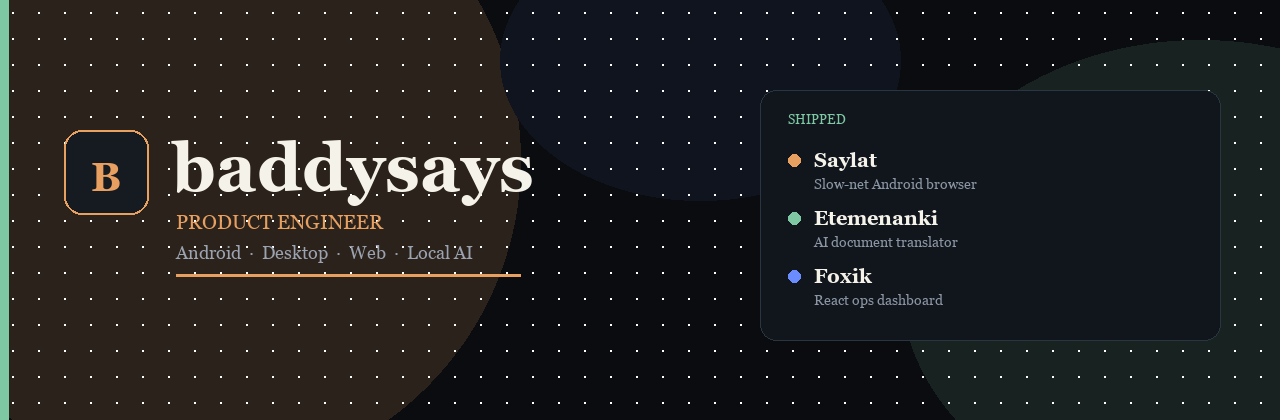
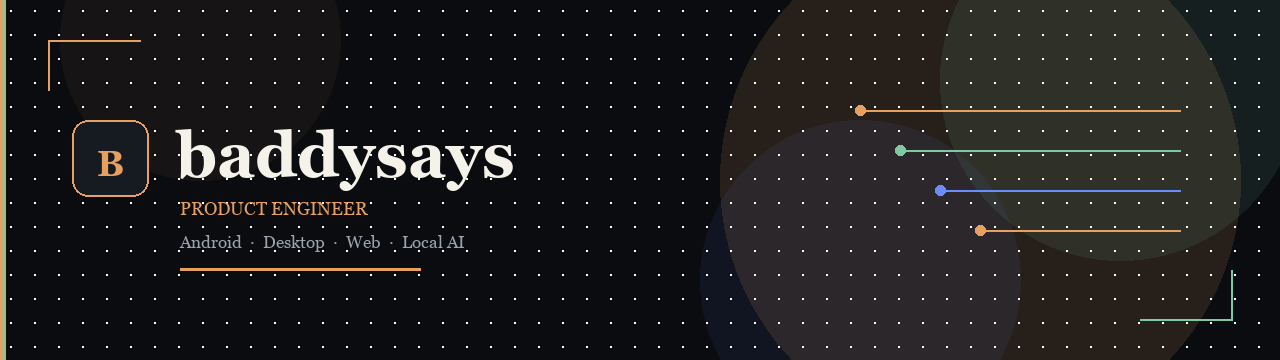
Polish profile: clean brand header without projects, tighter README.

diff --git a/README.md b/README.md
@@ -1,67 +1,57 @@
 <p align="center">
-  <img src="./assets/header.png" alt="baddysays — product engineer" width="100%" />
+  <img src="./assets/header.png" alt="baddysays" width="100%" />
 </p>
 
 <p align="center">
   <a href="https://git.io/typing-svg">
-    <img src="https://readme-typing-svg.demolab.com?font=Fira+Code&weight=600&size=22&pause=900&color=E8A060&center=true&vCenter=true&width=680&height=48&lines=Product+engineer+who+ships;Saylat+%C2%B7+Etemenanki+%C2%B7+Foxik;Android+%2B+Desktop+%2B+Web+%2B+Local+AI;From+idea+%E2%86%92+release+%E2%80%94+solo" alt="typing" />
+    <img src="https://readme-typing-svg.demolab.com?font=Fira+Code&weight=500&size=20&pause=1200&color=E8A060&center=true&vCenter=true&width=560&height=40&lines=Product+engineer+who+ships;Idea+%E2%86%92+CI+%E2%86%92+release;Android+%C2%B7+Desktop+%C2%B7+Web+%C2%B7+AI" alt="typing" />
   </a>
 </p>
 
 <p align="center">
-  <a href="https://baddysays.ru"><img src="https://img.shields.io/badge/Website-baddysays.ru-E8A060?style=for-the-badge&logo=google-chrome&logoColor=white&labelColor=0B0D10" alt="web"/></a>
-  <a href="mailto:hello@baddysays.ru"><img src="https://img.shields.io/badge/Email-hello%40baddysays.ru-7EC8A3?style=for-the-badge&logo=gmail&logoColor=white&labelColor=0B0D10" alt="mail"/></a>
-  <a href="https://t.me/baddysays"><img src="https://img.shields.io/badge/Telegram-%40baddysays-6B8CFF?style=for-the-badge&logo=telegram&logoColor=white&labelColor=0B0D10" alt="tg"/></a>
+  <a href="https://baddysays.ru"><img src="https://img.shields.io/badge/baddysays.ru-0B0D10?style=flat-square&logo=googlechrome&logoColor=E8A060" alt="web"/></a>
+  &nbsp;
+  <a href="mailto:hello@baddysays.ru"><img src="https://img.shields.io/badge/hello%40baddysays.ru-0B0D10?style=flat-square&logo=gmail&logoColor=7EC8A3" alt="mail"/></a>
+  &nbsp;
+  <a href="https://t.me/baddysays"><img src="https://img.shields.io/badge/%40baddysays-0B0D10?style=flat-square&logo=telegram&logoColor=6B8CFF" alt="tg"/></a>
 </p>
 
 ---
 
 ### About
 
-I ship products end-to-end — not slides, not half-repos.
+Делаю продукты целиком — от идеи до того, что можно поставить и открыть.
 
-- **Ownership** — idea → CI → release (APK / setup.exe) → docs → users
-- **Constraint-driven** — slow networks, offline, local AI
-- **Stack** — Kotlin / Android · Python · C++ / Qt · React
-- **Open to hire** for serious product work → [hello@baddysays.ru](mailto:hello@baddysays.ru)
+- **Full ownership** — idea → CI → APK / setup.exe → docs → users
+- **Hard constraints** — 2G networks, offline, local AI
+- **Hire me** for serious product work → [hello@baddysays.ru](mailto:hello@baddysays.ru)
 
 ### Tech
 
 <p align="center">
-  <img src="https://skillicons.dev/icons?i=kotlin,androidstudio,python,cpp,qt,react,vite,js,docker,linux,git,githubactions&perline=12" alt="tech stack" />
+  <img src="https://skillicons.dev/icons?i=kotlin,androidstudio,python,cpp,qt,react,vite,js,docker,linux,git,githubactions&perline=12" alt="tech" />
 </p>
 
 ### Products
 
-| | Project | What it is | Links |
-|:--:|:--|:--|:--|
-| 01 | **[Saylat](https://github.com/Baddysays/Saylat)** | Browser for 2G / slow nets — Android client + VPS compression | [release](https://github.com/Baddysays/Saylat/releases) · [site](https://saylat.baddysays.ru) |
-| 02 | **[Etemenanki](https://github.com/Baddysays/Etemenanki)** | Local AI document translator — Qt 6 + Ollama / OpenAI-compatible | [release](https://github.com/Baddysays/Etemenanki/releases) |
-| 03 | **[Foxik Dispatcher](https://github.com/Baddysays/foxik-dispatcher)** | Ops dashboard — shift KPI, analytics, AI worklog (React 19) | [live demo](https://foxik.baddysays.ru) |
+**[Saylat](https://github.com/Baddysays/Saylat)** — browser for slow / 2G networks  
+Android + VPS compression · Light / Medium / Full · messengers through your own server  
+[![release](https://img.shields.io/github/v/release/Baddysays/Saylat?style=flat-square&color=E8A060&labelColor=12161C)](https://github.com/Baddysays/Saylat/releases)
+&nbsp;[site](https://saylat.baddysays.ru)
 
-<p align="center">
-  <img alt="Saylat release" src="https://img.shields.io/github/v/release/Baddysays/Saylat?style=flat-square&label=Saylat&color=E8A060&labelColor=0B0D10" />
-  <img alt="Etemenanki release" src="https://img.shields.io/github/v/release/Baddysays/Etemenanki?style=flat-square&label=Etemenanki&color=7EC8A3&labelColor=0B0D10" />
-  <img alt="Foxik demo" src="https://img.shields.io/badge/Foxik-live%20demo-6B8CFF?style=flat-square&labelColor=0B0D10" />
-</p>
+**[Etemenanki](https://github.com/Baddysays/Etemenanki)** — local AI document translator  
+Qt 6 desktop · PDF / DOCX / TXT · Ollama or OpenAI-compatible API  
+[![release](https://img.shields.io/github/v/release/Baddysays/Etemenanki?style=flat-square&color=7EC8A3&labelColor=12161C)](https://github.com/Baddysays/Etemenanki/releases)
 
-### Activity
-
-<p align="center">
-  <img src="https://github-readme-streak-stats.herokuapp.com/?user=Baddysays&theme=dark&hide_border=true&background=0B0D10&ring=E8A060&fire=E8A060&currStreakLabel=7EC8A3&sideLabels=C9D1D9&dates=8B95A3" height="160" alt="streak" />
-</p>
+**[Foxik Dispatcher](https://github.com/Baddysays/foxik-dispatcher)** — ops dashboard  
+React 19 · shift KPI · analytics · AI worklog  
+[![demo](https://img.shields.io/badge/demo-live-6B8CFF?style=flat-square&labelColor=12161C)](https://foxik.baddysays.ru)
 
 ---
 
 <p align="center">
-  <strong>Need someone who owns the full loop and ships?</strong><br/>
-  <a href="mailto:hello@baddysays.ru">hello@baddysays.ru</a>
-  ·
-  <a href="https://t.me/baddysays">@baddysays</a>
-  ·
-  <a href="https://baddysays.ru">baddysays.ru</a>
-</p>
-
-<p align="center">
-  <img src="https://capsule-render.vercel.app/api?type=waving&color=0B0D10&height=90&section=footer" width="100%" alt="" />
+  <b>Need an engineer who ships the whole thing?</b><br/><br/>
+  <a href="mailto:hello@baddysays.ru"><img src="https://img.shields.io/badge/Email-hello%40baddysays.ru-E8A060?style=for-the-badge&logo=gmail&logoColor=0B0D10&labelColor=E8A060" alt="email"/></a>
+  &nbsp;
+  <a href="https://t.me/baddysays"><img src="https://img.shields.io/badge/Telegram-%40baddysays-7EC8A3?style=for-the-badge&logo=telegram&logoColor=0B0D10&labelColor=7EC8A3" alt="telegram"/></a>
 </p>
